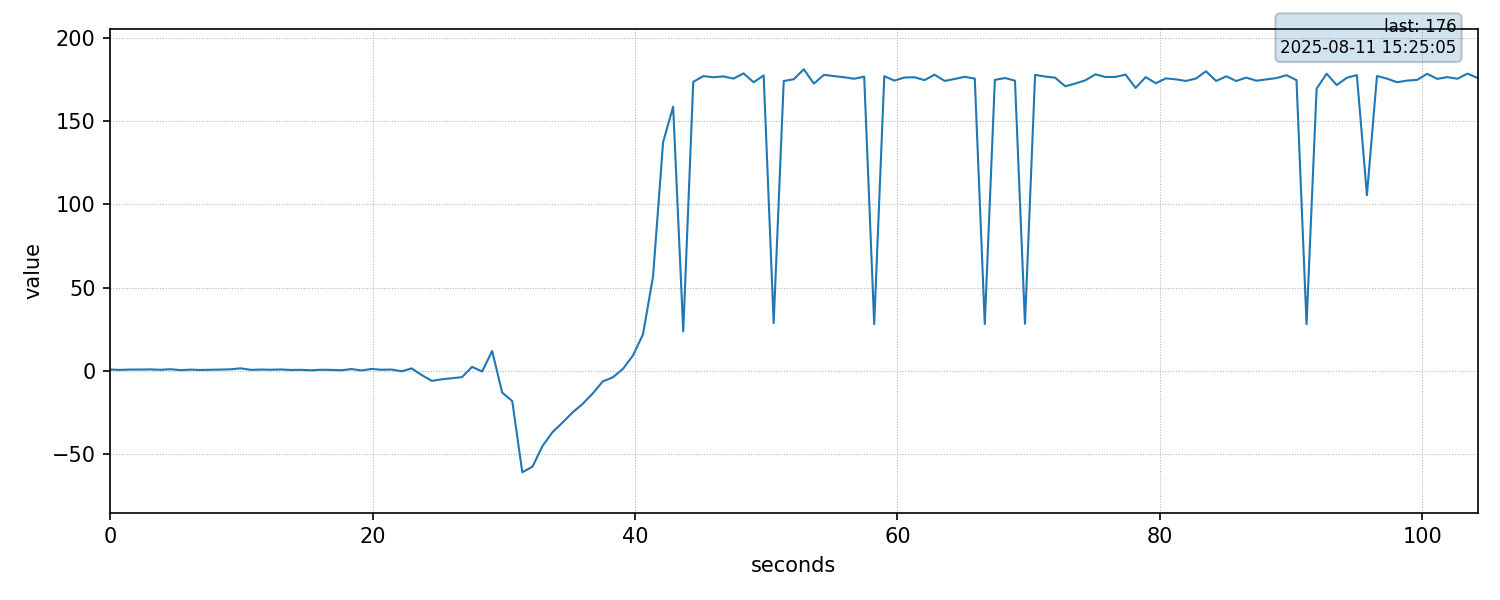
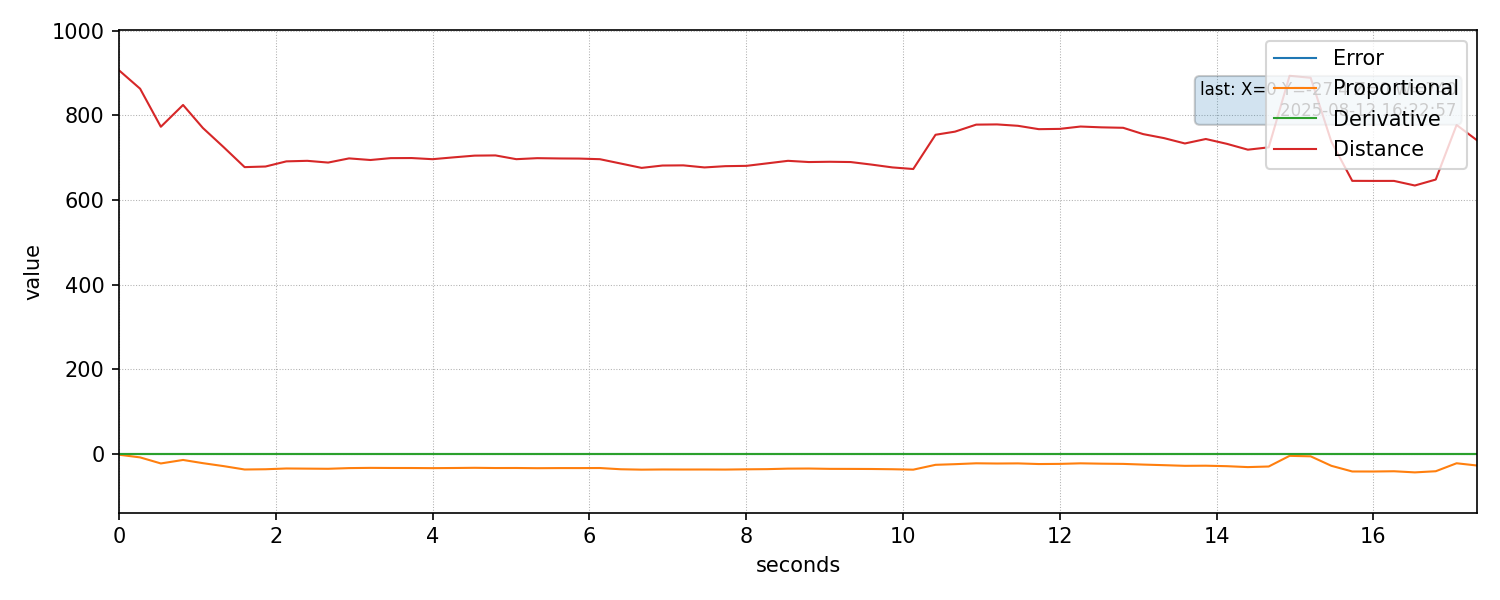
pid controller

diff --git a/python/debug/main.py b/python/debug/main.py
@@ -1,8 +1,8 @@
 #!/usr/bin/env python3
 """
-serial_to_png_unlimited_mac.py
+serial_to_png_4vars_mac.py
 
-Read numeric values from a serial console and periodically save a PNG time-series graph.
+Read 4 numeric values (x y z w) from a serial console and periodically save a PNG time-series graph.
 No max points — will store all data until stopped.
 Default port: /dev/cu.usbmodem1101 (common on macOS for Arduino-like boards)
 """
@@ -24,12 +24,13 @@ import serial
 
 NUMBER_RE = re.compile(r'[-+]?\d*\.?\d+(?:[eE][-+]?\d+)?')
 
-def parse_first_number(s: str):
-    m = NUMBER_RE.search(s)
-    if not m:
+def parse_numbers(s: str):
+    """Extract up to 4 numbers from a string like 'x y z w'."""
+    matches = NUMBER_RE.findall(s)
+    if len(matches) < 4:
         return None
     try:
-        return float(m.group(0))
+        return tuple(float(matches[i]) for i in range(4))
     except ValueError:
         return None
 
@@ -43,9 +44,9 @@ def reader_thread(ser, queue: deque, stop_event: Event):
                 s = line.decode(errors='replace').strip()
             except Exception:
                 s = str(line)
-            val = parse_first_number(s)
-            if val is not None:
-                queue.append((datetime.now(), val))
+            vals = parse_numbers(s)
+            if vals is not None:
+                queue.append((datetime.now(), *vals))
         except serial.SerialException as e:
             print("Serial error:", e, file=sys.stderr)
             stop_event.set()
@@ -56,39 +57,47 @@ def reader_thread(ser, queue: deque, stop_event: Event):
 def plot_and_save(points, outpath, title=None, dpi=150):
     if len(points) == 0:
         return
-    times, vals = zip(*points)
+    times, xs, ys, zs, ws = zip(*points)
     t0 = times[0]
-    xs = np.array([(t - t0).total_seconds() for t in times])
-    ys = np.array(vals, dtype=float)
+    t_seconds = np.array([(t - t0).total_seconds() for t in times])
 
     fig, ax = plt.subplots(figsize=(10, 4))
-    ax.plot(xs, ys, linewidth=1)
+    ax.plot(t_seconds, xs, label="Error", linewidth=1)
+    ax.plot(t_seconds, ys, label="Proportional", linewidth=1)
+    ax.plot(t_seconds, zs, label="Derivative", linewidth=1)
+    ax.plot(t_seconds, ws, label="Distance", linewidth=1)
+
     ax.set_xlabel("seconds")
     ax.set_ylabel("value")
     if title:
         ax.set_title(title)
     ax.grid(True, linestyle=':', linewidth=0.5)
-    ymin, ymax = ys.min(), ys.max()
+
+    all_vals = np.array([xs, ys, zs, ws])
+    ymin, ymax = all_vals.min(), all_vals.max()
     yrange = ymax - ymin or 1.0
     ax.set_ylim(ymin - 0.1 * yrange, ymax + 0.1 * yrange)
-    ax.set_xlim(xs.min(), xs.max())
+    ax.set_xlim(t_seconds.min(), t_seconds.max())
+    ax.legend(loc="upper right")
 
     last_time_str = times[-1].strftime("%Y-%m-%d %H:%M:%S")
-    ax.annotate(f"last: {ys[-1]:.3g}\n{last_time_str}",
-                xy=(xs[-1], ys[-1]),
-                xytext=(-10, 10),
-                textcoords='offset points',
-                ha='right', va='bottom',
-                fontsize=8,
-                bbox=dict(boxstyle="round,pad=0.3", alpha=0.2))
+    ax.annotate(
+        f"last: X={xs[-1]:.3g} Y={ys[-1]:.3g} Z={zs[-1]:.3g} W={ws[-1]:.3g}\n{last_time_str}",
+        xy=(t_seconds[-1], ws[-1]),
+        xytext=(-10, 10),
+        textcoords='offset points',
+        ha='right', va='bottom',
+        fontsize=8,
+        bbox=dict(boxstyle="round,pad=0.3", alpha=0.2)
+    )
     fig.tight_layout()
     fig.savefig(outpath, dpi=dpi)
     plt.close(fig)
 
 def main():
-    p = argparse.ArgumentParser(description="Read numeric values from serial and save PNG timeseries (unlimited points).")
+    p = argparse.ArgumentParser(description="Read 4 numeric values from serial and save PNG timeseries (unlimited points).")
     p.add_argument("--port", "-p", type=str, default="/dev/cu.usbmodem1101", help="Serial port (default: /dev/cu.usbmodem1101)")
-    p.add_argument("--baud", "-b", type=int, default=9600, help="Baud rate (default 9600)")
+    p.add_argument("--baud", "-b", type=int, default=115200, help="Baud rate (default 9600)")
     p.add_argument("--out", "-o", type=str, default="graph.png", help="Output PNG file path")
     p.add_argument("--update", "-u", type=float, default=0.5, help="Seconds between PNG updates")
     p.add_argument("--title", "-t", type=str, default=None, help="Title for the plot")
@@ -96,7 +105,7 @@ def main():
     args = p.parse_args()
 
     try:
-        ser = serial.Serial(args.port, args.baud, timeout=args.timeout)
+        ser = serial.Serial(args.port, args.baud, timeout=args.timeout, dsrdtr=False)
     except serial.SerialException as e:
         print("Failed to open serial port:", e, file=sys.stderr)
         sys.exit(2)

diff --git a/lib/controller/Controller.cpp b/lib/controller/Controller.cpp
@@ -1,8 +1,9 @@
 #include <Wire.h>
 #include <Adafruit_VL53L1X.h>
+#include <avr/wdt.h>
 
 const int SENSOR_DISTANCE = 135;
-const double PROPORTIONAL_CONST = 0.2;
+const double PROPORTIONAL_CONST = 0.3;
 const double DERIVATIVE_CONST = 0;
 const int STRAIGHT_ANGLE = 90;
 
@@ -15,52 +16,68 @@ float f_left = 0,
 
 Adafruit_VL53L1X* SENSORS[5];
 const int XSHUT_PINS[5] = { 2, 3, 4, 5, 6 };
-const byte SENSOR_ADDRESS[5] = { 0x32, 0x33, 0x34, 0x35, 0x36 };
+const byte SENSOR_ADDRESS[5] = { 0x30, 0x31, 0x32, 0x33, 0x34 };
 const int MEASUREMENT_ERROR[5] = { 10, 25, 0, -8, 0 };
+
+bool start_sensor(int index, Adafruit_VL53L1X* sensor) {
+    if (sensor->begin(SENSOR_ADDRESS[index], &Wire)) {
+        if (!sensor->startRanging()) {
+            Serial.println("Nepavyko pradeti atstumo matavimo");
+            return false;
+        }
+
+        Serial.println(String("Pavyko paleisti sensoriu ") + index);
+        sensor->setTimingBudget(50);
+        return true;
+    }
+
+    return false;
+}
 
 void load_sensors() {
     Wire.begin();
+    Wire.setTimeout(100);
 
     // Let's assign unique I2C address for each sensor
     for (int i = 0; i < 5; i++) {
         SENSORS[i] = new Adafruit_VL53L1X(XSHUT_PINS[i]);
-        if (SENSORS[i]->begin(SENSOR_ADDRESS[i], &Wire)) {
-            if (!SENSORS[i]->startRanging()) {
-                Serial.println("Nepavyko pradeti atstumo matavimo");
-            }
-
-            Serial.println("Pavyko paleisti sensoriu");
-
-            SENSORS[i]->setTimingBudget(50);
-        } else {
+        if (!start_sensor(i, SENSORS[i]))  {
             Serial.println("Nepavyko paleisti sensorio");
         }
 
-        delay(30);
+        delay(50);
     }
 }
 
 // Servo turning angle
 float turning_angle = STRAIGHT_ANGLE;
+float last_error;
 
 void read_sensor_data() {
     // Real-time sensor data reading
     float distances[5] = { 0 };
     for (int i = 0; i < 5; i++) {
+        //Serial.println("prasom datos");
         if (SENSORS[i]->dataReady()) {
             const float distance = SENSORS[i]->distance();
             distances[i] = distance;
             SENSORS[i]->clearInterrupt();
+            
+            Serial.print(i);
+            Serial.print(" ");
+            Serial.print(distance);
+            Serial.println();
         }
 
         delay(50);
     }
 
+    Serial.println();
     front = distances[3] + MEASUREMENT_ERROR[0];
     f_left = distances[4] + MEASUREMENT_ERROR[1];
     f_right = distances[2] + MEASUREMENT_ERROR[2];
     b_left = distances[1] + MEASUREMENT_ERROR[3];
-    b_right = distances[0] + MEASUREMENT_ERROR[4];
+    b_right = distances[0] + MEASUREMENT_ERROR[4];    
 
     // PID controller
     // We are calculating the angle to the outside wall.
@@ -69,17 +86,28 @@ void read_sensor_data() {
 
     float track_x1 = f_left;
     float track_x2 = b_left;
-    const float delta = track_x1 - track_x2;
-    const float wall_angle = atan(delta / SENSOR_DISTANCE);
-    const float wall_distance = (track_x1 + track_x2) / 2 * cos(wall_angle);
-    const float track_size = (f_left + f_right + b_left + b_right) / 2 * cos(wall_angle);
+    const float wall_angle = atan((track_x1 - track_x2) / SENSOR_DISTANCE);
+    const float wall_distance = ((track_x1 + track_x2) / 2) * cos(wall_angle);
+    const float track_size = ((f_left + f_right + b_left + b_right) / 2) * cos(wall_angle);
     const float error = track_size / 2 - wall_distance;
+    if (!last_error) {
+        last_error = error;
+    }
+
+    const float derivative_delta = (error - last_error);
 
     turning_angle = 
         STRAIGHT_ANGLE 
-        + PROPORTIONAL_CONST * error;
+        + PROPORTIONAL_CONST * error
+        + DERIVATIVE_CONST * derivative_delta;
 
-    Serial.println(turning_angle - STRAIGHT_ANGLE);
-
-    delay(500);
+    /*
+    Serial.print(0);
+    Serial.print(" ");
+    Serial.print(PROPORTIONAL_CONST * error);
+    Serial.print(" ");
+    Serial.print(DERIVATIVE_CONST * derivative_delta);
+    Serial.print(" ");
+    Serial.print(track_size);
+    Serial.println();*/
 }

diff --git a/src/main.cpp b/src/main.cpp
@@ -12,7 +12,7 @@ Adafruit_MotorShield AFMS = Adafruit_MotorShield();
 Adafruit_DCMotor *motor = AFMS.getMotor(1);
 
 void setup() {
-  Serial.begin(9600);
+  Serial.begin(115200);
   AFMS.begin();
 
   // Servo motor
@@ -20,15 +20,16 @@ void setup() {
 
   // Time of flight sensors
   load_sensors();
-  motor->setSpeed(0);
+  motor->setSpeed(50);
+  motor->run(FORWARD);
 }
 
 void loop() {
   // Reads and updates sensor data
-  motor->run(FORWARD);
   read_sensor_data();
-
+  delay(1000);
   float angle = turning_angle;
+  
   if (angle > MAX_RIGHT_ANGLE)
     angle = MAX_RIGHT_ANGLE;
   if (angle < MAX_LEFT_ANGLE)
